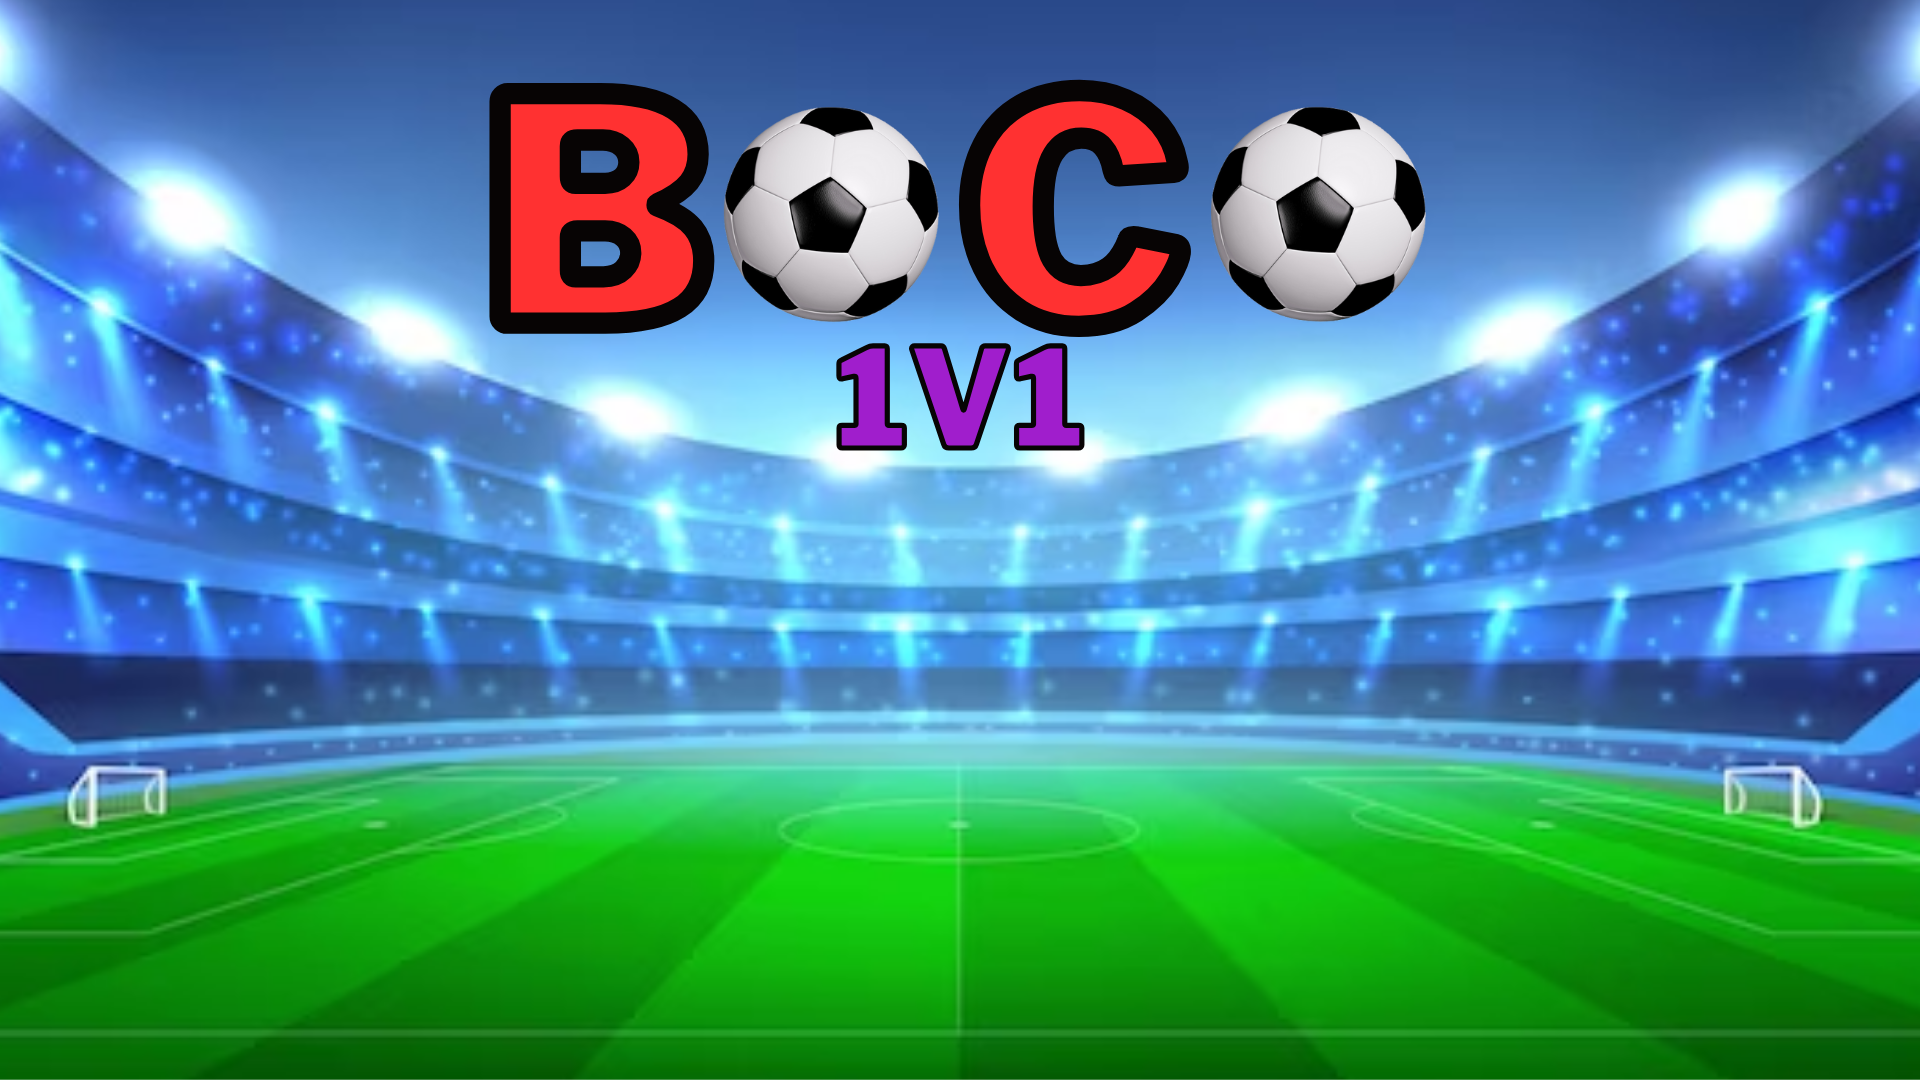
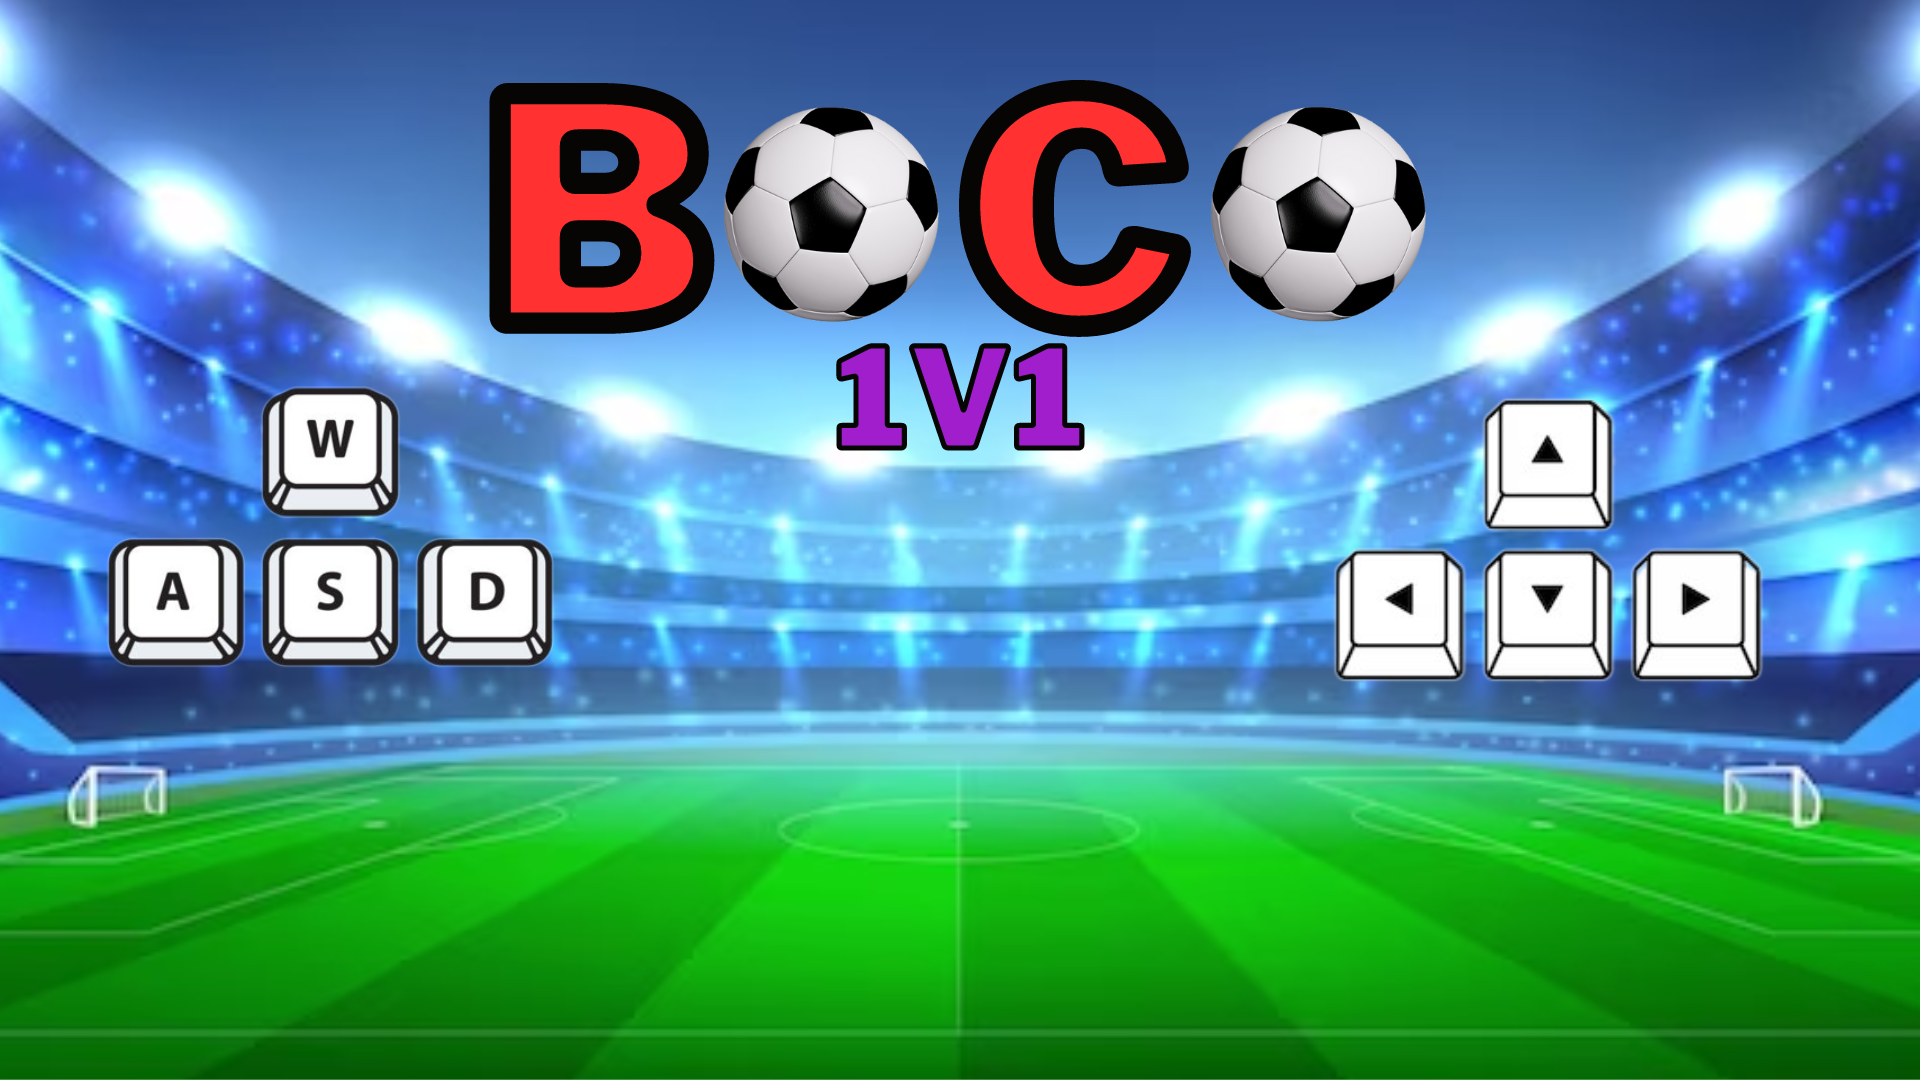
Changed startscreen with wasd and arrow keys

Changed region(s): [[0.0312, 0.3361, 0.3125, 0.6417], [0.6875, 0.3667, 0.9375, 0.6417]]

diff --git a/EndScreen.java b/EndScreen.java
@@ -24,7 +24,7 @@ public class EndScreen extends JPanel implements ActionListener {
         panel.setFocusable(true);
     
         try {
-            backgroundImage = ImageIO.read(new File("Startscreen.png"));
+            backgroundImage = ImageIO.read(new File("Endscreen.png"));
         } catch (IOException e) {
             e.printStackTrace();
         }
